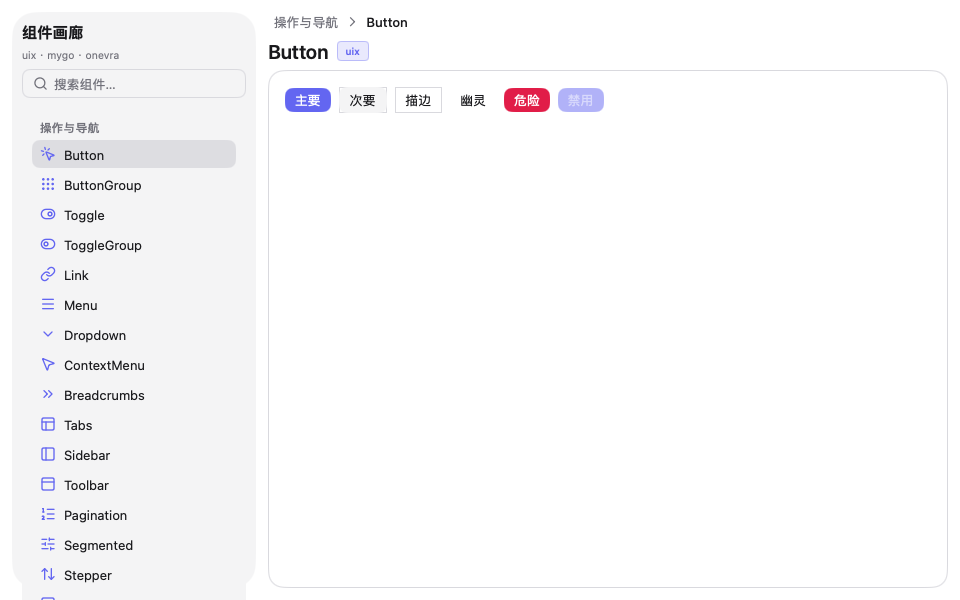
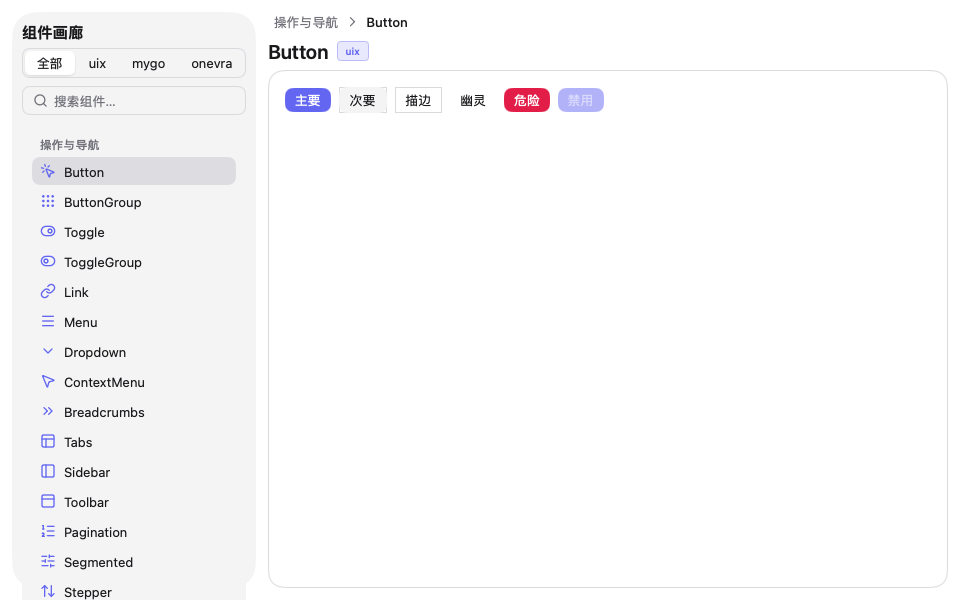
gallery: filter the sidebar by library, uix, mygo or onevra
The rail named the three libraries but gave no way to see one alone.
The name becomes a segmented control: 全部 mixes them as before, and
clicking a library shows that library's components in the sidebar and
lands on its first page. The page's badge still names the library, and
the badge tests now count the filter's label too.

Changed region(s): [[0.0312, 0.09, 0.25, 1.0]]

diff --git a/examples/gallery/view/view.go b/examples/gallery/view/view.go
@@ -17,6 +17,7 @@ import (
 	"github.com/smallnest/uix/components/breadcrumbs"
 	"github.com/smallnest/uix/components/scroll"
 	"github.com/smallnest/uix/components/searchfield"
+	"github.com/smallnest/uix/components/segmented"
 	"github.com/smallnest/uix/components/sidebar"
 )
 
@@ -28,6 +29,13 @@ const Width, Height = 960, 600
 func GalleryView(c *ui.Context) {
 	c.SetTheme(tokens.For(c.Theme().Dark))
 	t := c.Theme()
+	// A library filter that does not show the chosen page lands on the
+	// first page of the library it does show.
+	if lib, ok := filterLib(); ok && !inLib(lib, State.Selected) {
+		if e, ok := firstOf(lib); ok {
+			State.Selected = e.ID
+		}
+	}
 	entry, section := current()
 	ui.Row(c).Fill().Gap(t.Space(3)).Padding(t.Space(3)).Children(func() {
 		rail(c, t)
@@ -41,7 +49,13 @@ func rail(c *ui.Context, t *ui.Theme) {
 	ui.Column(c).Width(244).FillHeight().Shrink(0).Gap(t.Space(2)).
 		Background(t.Surface).Radius(t.Radius * 3).Padding(t.Space(2.5)).Children(func() {
 		ui.Text(c, "组件画廊").FontSize(t.FontSize * 1.2).Bold()
-		ui.Text(c, "uix · mygo · onevra").FontSize(t.FontSize * 0.8).TextColor(t.TextMuted)
+		// The library filter: 全部 mixes the three libraries, and each
+		// name shows that library's components alone.
+		segmented.Segmented(c, segmented.Props{
+			Selected: &State.Filter,
+			Labels:   []string{"全部", "uix", "mygo", "onevra"},
+			Label:    "按库过滤",
+		})
 		searchfield.SearchField(c, searchfield.Props{Value: &State.Query, Placeholder: "搜索组件…"})
 		sections := sectionsFor(State.Query)
 		if len(sections) == 0 {
@@ -85,16 +99,21 @@ func current() (Entry, string) {
 	return e, catalog[0].Title
 }
 
-// sectionsFor returns the sidebar sections whose items match the query:
-// every item when the query is empty, else those whose name or ID
-// contains it, case-insensitively. Each item carries the icon of its
-// component.
+// sectionsFor returns the sidebar sections whose items match the query
+// and the library filter: every item when the query is empty, else
+// those whose name or ID contains it, case-insensitively; and only the
+// filtered library's items when the filter is on. Each item carries the
+// icon of its component.
 func sectionsFor(query string) []sidebar.Section {
 	q := strings.ToLower(strings.TrimSpace(query))
+	lib, filtered := filterLib()
 	var out []sidebar.Section
 	for _, s := range catalog {
 		var items []sidebar.Item
 		for _, e := range s.Entries {
+			if filtered && e.Lib != lib {
+				continue
+			}
 			if q == "" || strings.Contains(strings.ToLower(e.Name), q) || strings.Contains(strings.ToLower(e.ID), q) {
 				items = append(items, sidebar.Item{ID: e.ID, Label: e.Name, Icon: e.Icon()})
 			}
@@ -104,4 +123,38 @@ func sectionsFor(query string) []sidebar.Section {
 		}
 	}
 	return out
+}
+
+// filterLib returns the library the sidebar is filtered to, and whether
+// a filter is on; Filter 0 (全部) filters none.
+func filterLib() (Library, bool) {
+	if State.Filter == 0 {
+		return 0, false
+	}
+	return Library(State.Filter - 1), true
+}
+
+// firstOf returns the first catalog entry of the library, for the
+// filter to land on a page it shows.
+func firstOf(lib Library) (Entry, bool) {
+	for _, s := range catalog {
+		for _, e := range s.Entries {
+			if e.Lib == lib {
+				return e, true
+			}
+		}
+	}
+	return Entry{}, false
+}
+
+// inLib reports whether the page chosen belongs to the library.
+func inLib(lib Library, id string) bool {
+	for _, s := range catalog {
+		for _, e := range s.Entries {
+			if e.ID == id {
+				return e.Lib == lib
+			}
+		}
+	}
+	return false
 }

diff --git a/examples/gallery/main_test.go b/examples/gallery/main_test.go
@@ -15,9 +15,10 @@ func newTester(t *testing.T) *ui.Tester {
 	return ui.NewTester(view.GalleryView, view.Width, view.Height)
 }
 
-// countExact counts the texts of the frame equal to s, which tells the
-// library badge apart from the subtitle: the badge is its own text, the
-// subtitle is "uix · mygo · onevra" as one.
+// countExact counts the texts of the frame equal to s. The library
+// filter in the rail names the three libraries, so a library's text
+// appears there even on a page of another library: once when only the
+// filter names it, twice when the page's badge names it too.
 func countExact(tt *ui.Tester, s string) int {
 	n := 0
 	for _, x := range tt.Texts() {
@@ -33,17 +34,17 @@ func countExact(tt *ui.Tester, s string) int {
 func TestRenders(t *testing.T) {
 	tt := newTester(t)
 	for _, s := range []string{
-		"组件画廊", "uix · mygo · onevra", "操作与导航",
+		"组件画廊", "全部", "操作与导航",
 		"Button", "主要", "次要", "描边", "幽灵", "危险", "禁用",
 	} {
 		if !tt.HasText(s) {
 			t.Fatalf("missing %q in %q", s, tt.Texts())
 		}
 	}
-	if countExact(tt, "uix") == 0 {
-		t.Fatal("the Button page lacks the uix badge")
+	if countExact(tt, "uix") < 2 {
+		t.Fatal("the Button page lacks the uix badge beside the filter")
 	}
-	if countExact(tt, "onevra") != 0 {
+	if countExact(tt, "onevra") != 1 {
 		t.Fatal("the Button page shows a onevra badge")
 	}
 }
@@ -79,15 +80,43 @@ func TestNavigate(t *testing.T) {
 func TestLibraries(t *testing.T) {
 	tt := newTester(t)
 	reach(t, tt, "box", "Box")
-	if countExact(tt, "mygo") == 0 {
-		t.Fatal("the Box page lacks the mygo badge")
+	if countExact(tt, "mygo") < 2 {
+		t.Fatal("the Box page lacks the mygo badge beside the filter")
 	}
 	reach(t, tt, "donut", "DonutChart")
-	if countExact(tt, "onevra") == 0 {
+	if countExact(tt, "onevra") < 2 {
 		t.Fatal("the DonutChart page lacks the onevra badge")
 	}
-	if countExact(tt, "uix") != 0 {
+	if countExact(tt, "uix") != 1 {
 		t.Fatal("the DonutChart page shows a uix badge")
+	}
+}
+
+// TestLibraryFilter clicks a library and the sidebar shows that
+// library's components alone, and the page lands on one of them; the
+// 全部 segment restores the mixed sidebar.
+func TestLibraryFilter(t *testing.T) {
+	tt := newTester(t)
+	if err := tt.Click("mygo"); err != nil {
+		t.Fatal(err)
+	}
+	if view.State.Selected != "textinputbuffer" {
+		t.Fatalf("the mygo filter chose %q, want textinputbuffer", view.State.Selected)
+	}
+	if !tt.HasText("TextInputBuffer") || !tt.HasText("Box") {
+		t.Fatalf("the mygo sidebar misses its components: %q", tt.Texts())
+	}
+	if tt.HasText("Button") {
+		t.Fatal("the mygo filter still shows a uix component")
+	}
+	if err := tt.Click("uix"); err != nil {
+		t.Fatal(err)
+	}
+	if !tt.HasText("Button") {
+		t.Fatalf("the uix filter lost its components: %q", tt.Texts())
+	}
+	if tt.HasText("Box") {
+		t.Fatal("the uix filter still shows a mygo component")
 	}
 }
 

diff --git a/examples/gallery/view/state.go b/examples/gallery/view/state.go
@@ -30,13 +30,17 @@ var commandState command.State
 // State is the state of the example; the controls edit it in place.
 var State = GalleryState{}
 
-// GalleryState holds the gallery: the page chosen in the sidebar and the
-// search text filtering the sidebar items.
+// GalleryState holds the gallery: the page chosen in the sidebar, the
+// search text filtering the sidebar items, and the library the sidebar
+// is filtered to.
 type GalleryState struct {
 	// Selected is the ID of the page shown.
 	Selected string
 	// Query filters the sidebar items.
 	Query string
+	// Filter is the chosen segment of the library filter: 0 shows every
+	// library mixed, 1 uix, 2 mygo and 3 onevra alone.
+	Filter int
 }
 
 // Demo holds the values the demo pages edit. Each page keeps its own
